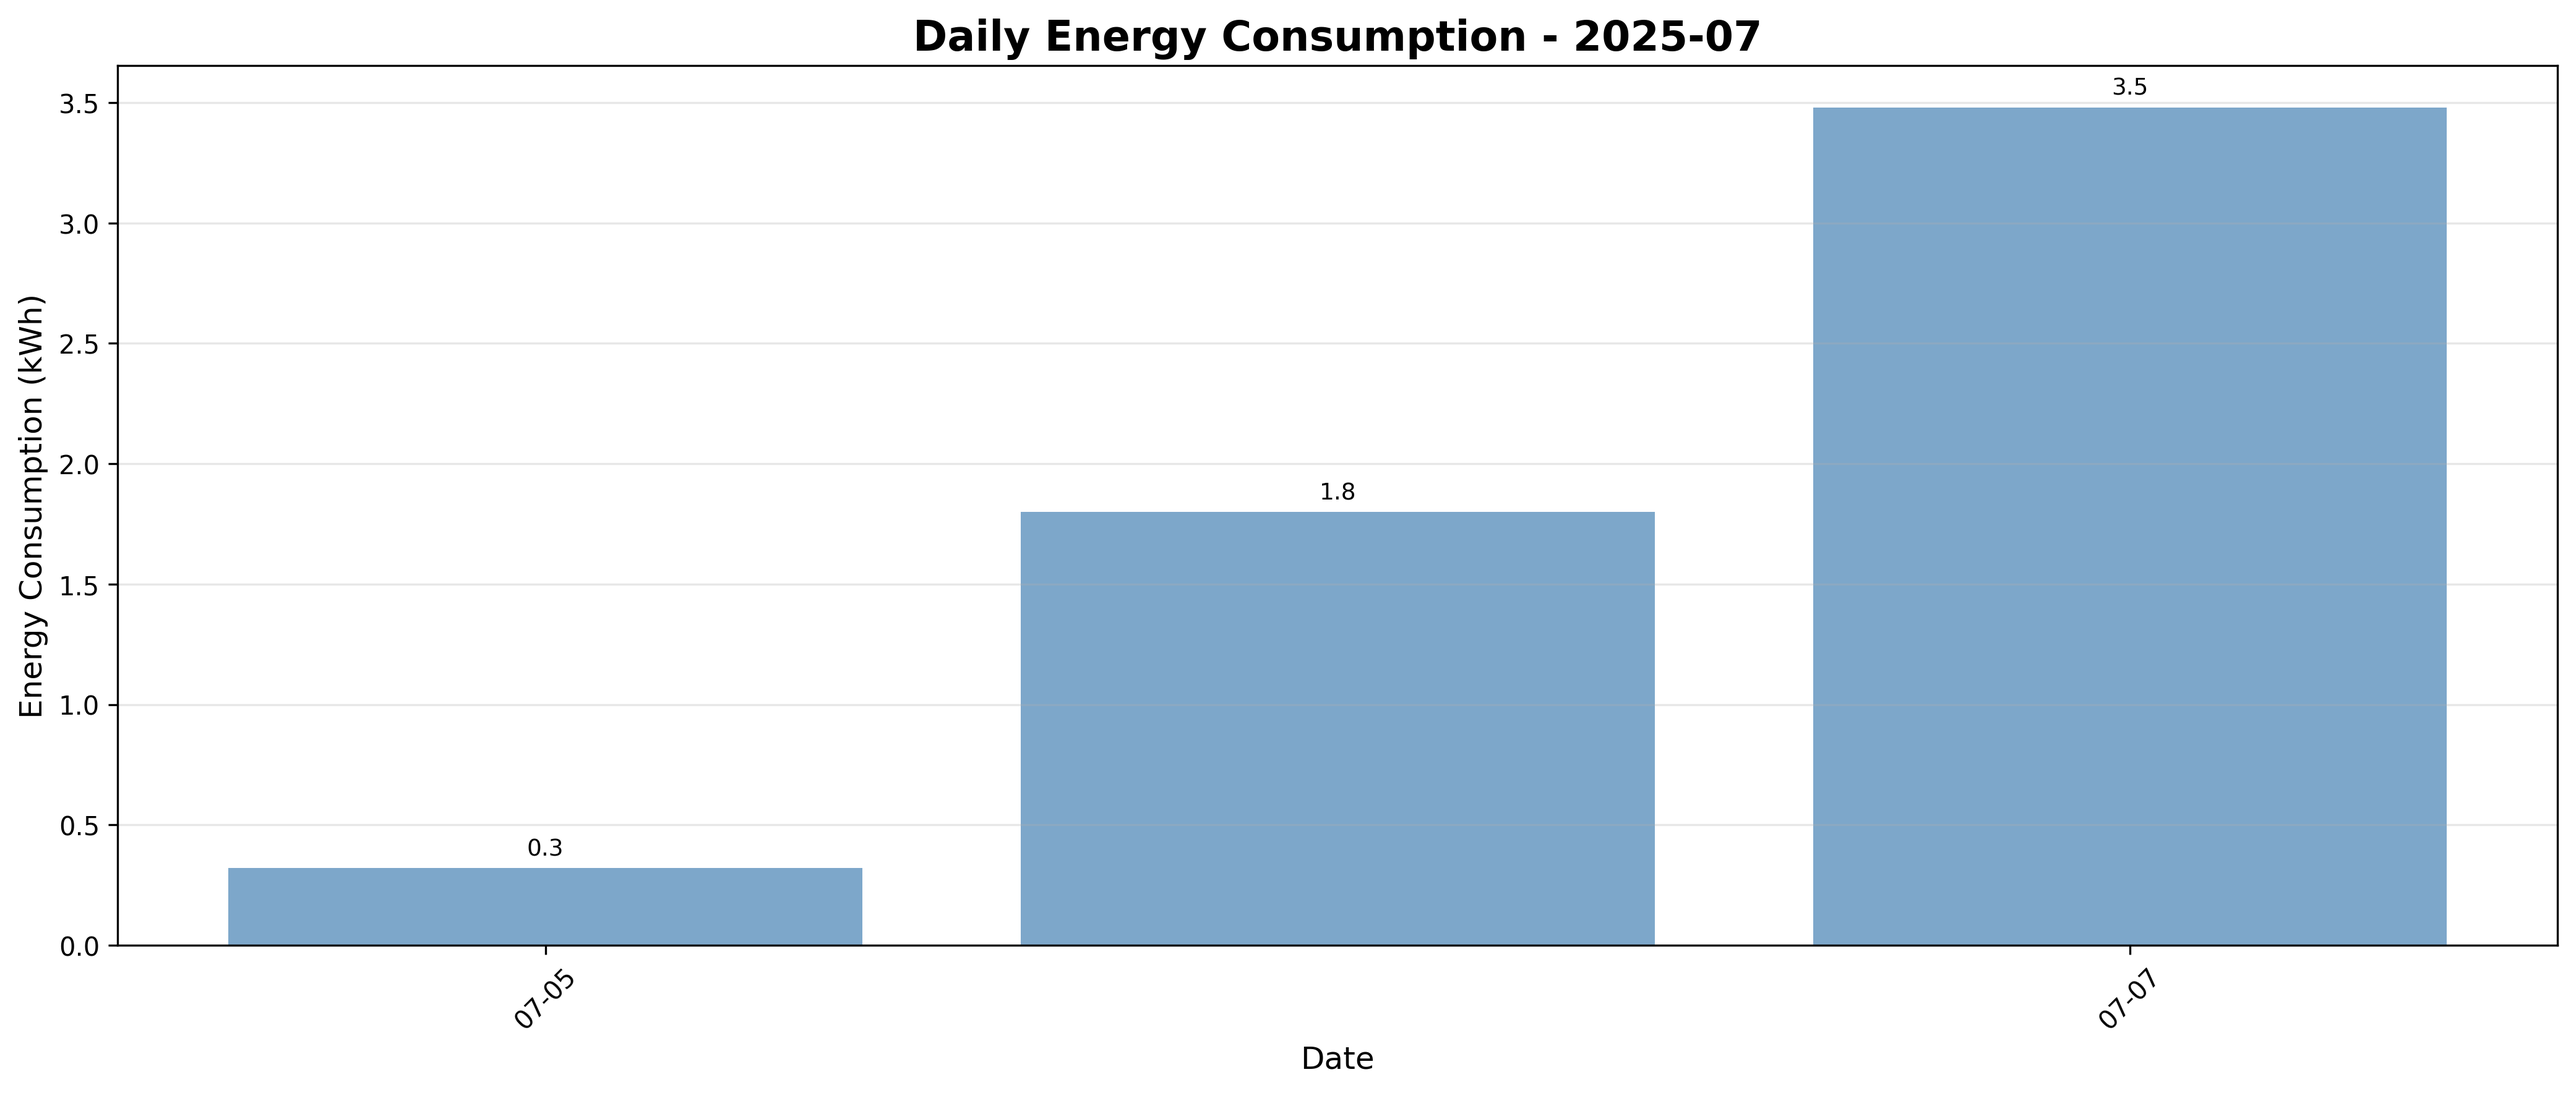
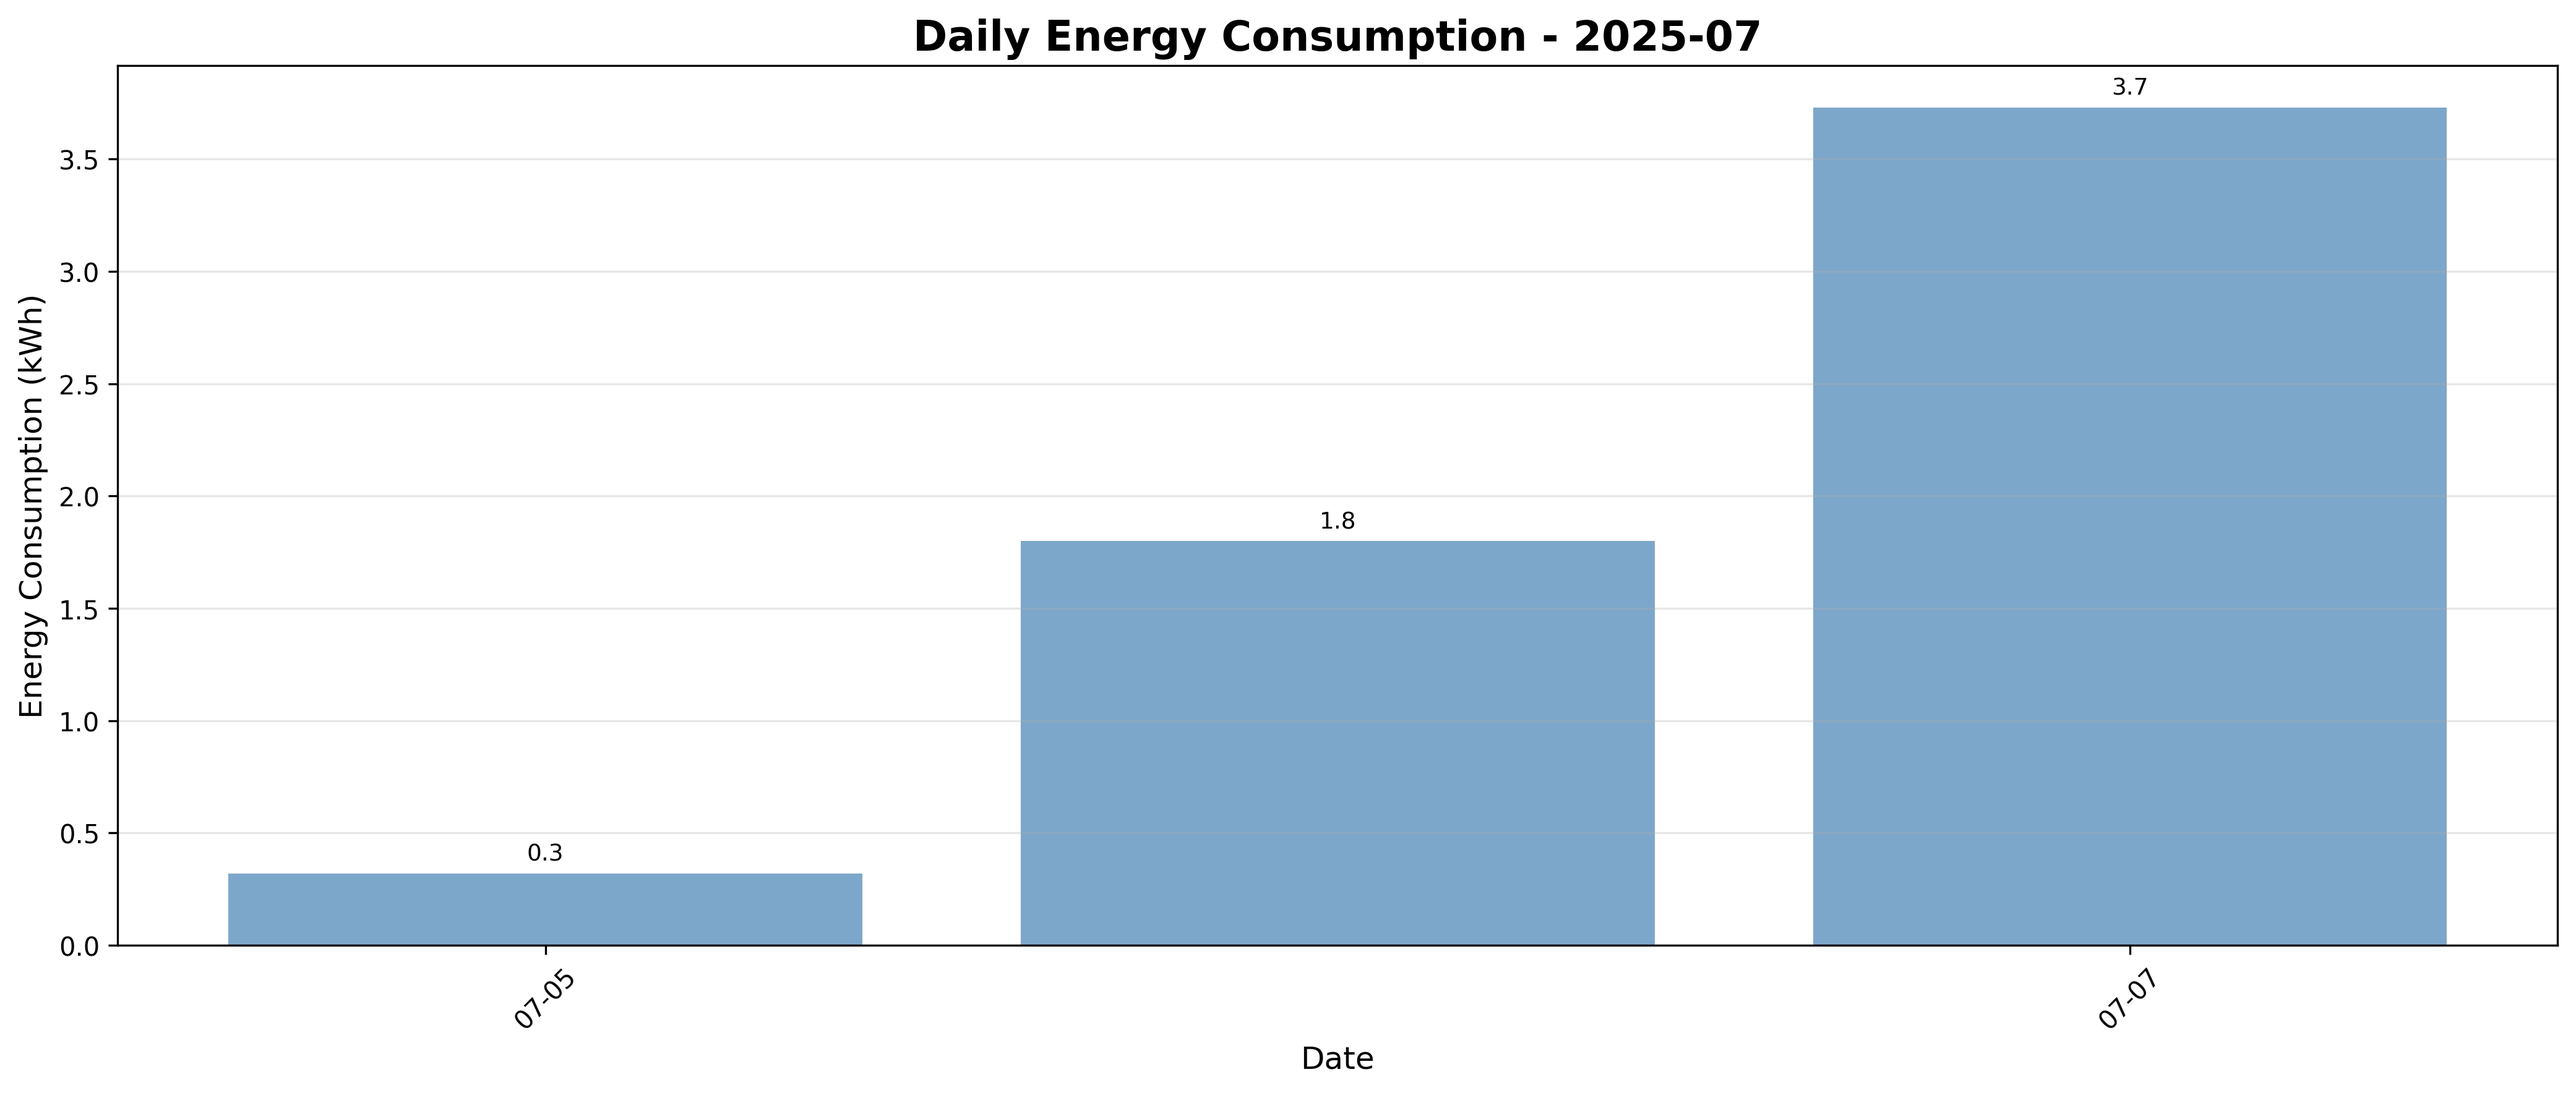
Update energy data - Mon Jul  7 19:07:41 UTC 2025

Changed region(s): [[0.3746, 0.4666, 0.6556, 0.4977], [0.0937, 0.7777, 0.3434, 0.8088]]

diff --git a/data/README.md b/data/README.md
@@ -2,8 +2,8 @@
 
 ## 📊 Consumption Overview
 
-**Latest Reading:** 465.18 kWh at 2025-07-07 18:01:06 UTC  
-**Total Consumption:** 5.60 kWh  
+**Latest Reading:** 465.43 kWh at 2025-07-07 19:07:40 UTC  
+**Total Consumption:** 5.85 kWh  
 **Monitoring Period:** 1 months  
 
 ## 📈 Yearly Consumption Trends
@@ -62,4 +62,4 @@ Data is automatically collected every hour using GitHub Actions.
 - **Monthly Consumption**: Difference between last reading of the month and first reading of the month
 - **Daily Consumption**: Difference between last reading of the day and last reading of the previous day
 
-Last updated: 2025-07-07 18:01:07 UTC
+Last updated: 2025-07-07 19:07:41 UTC
